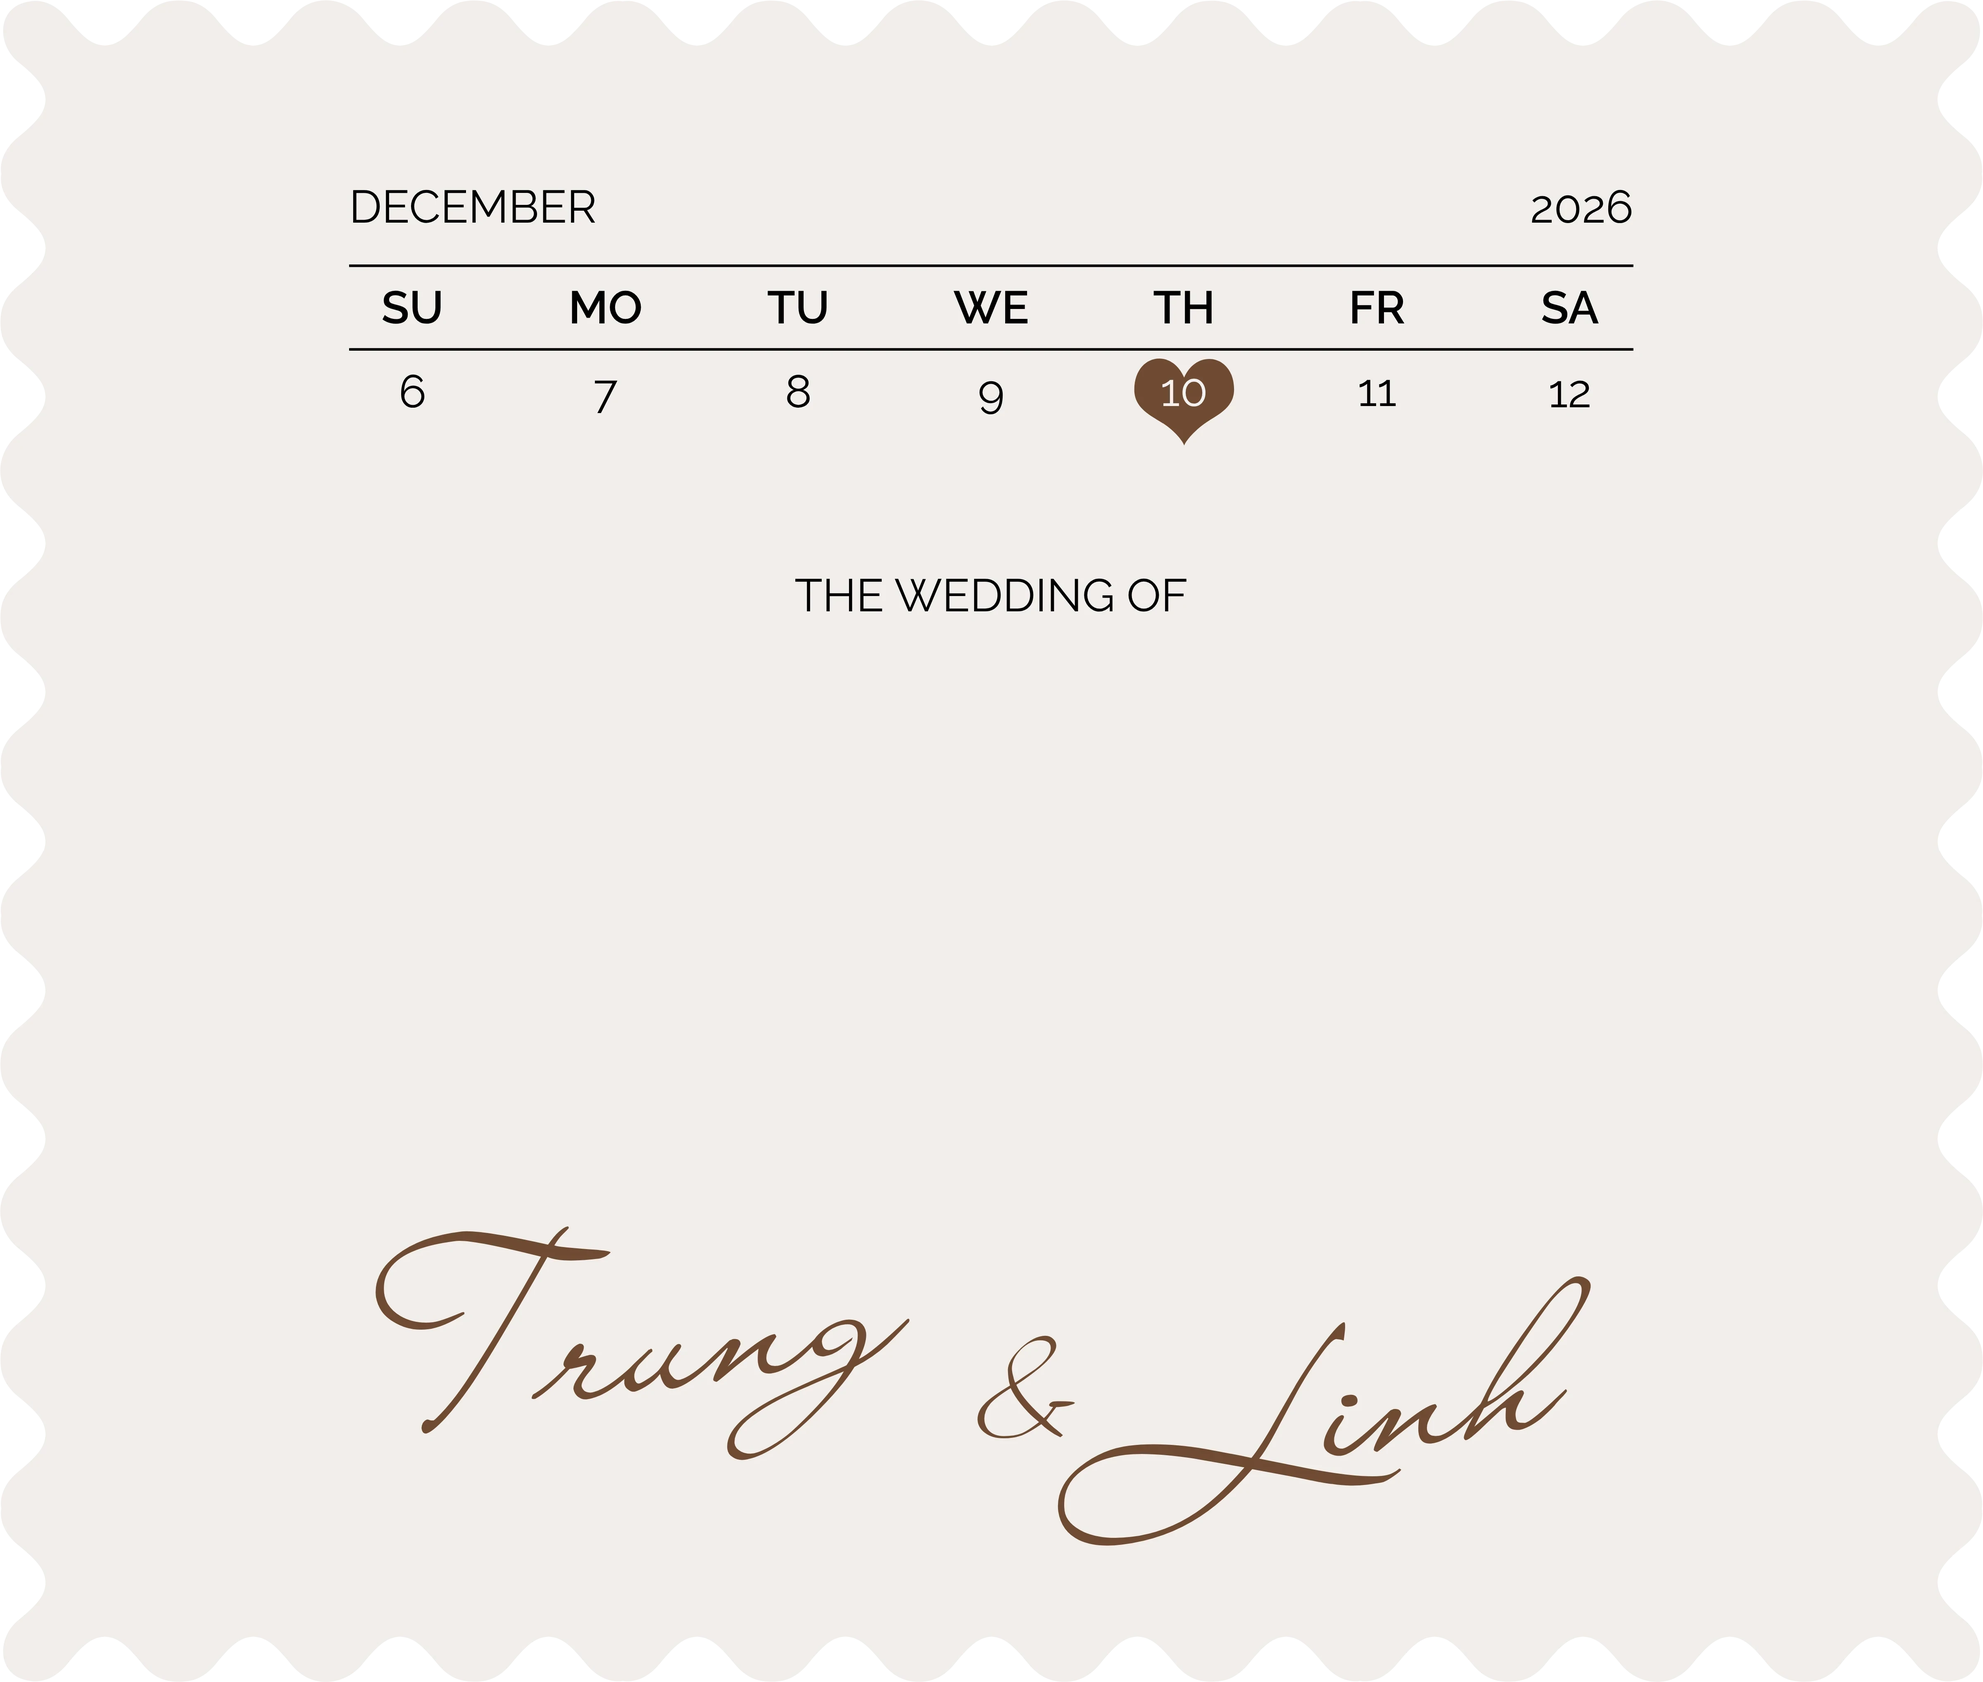
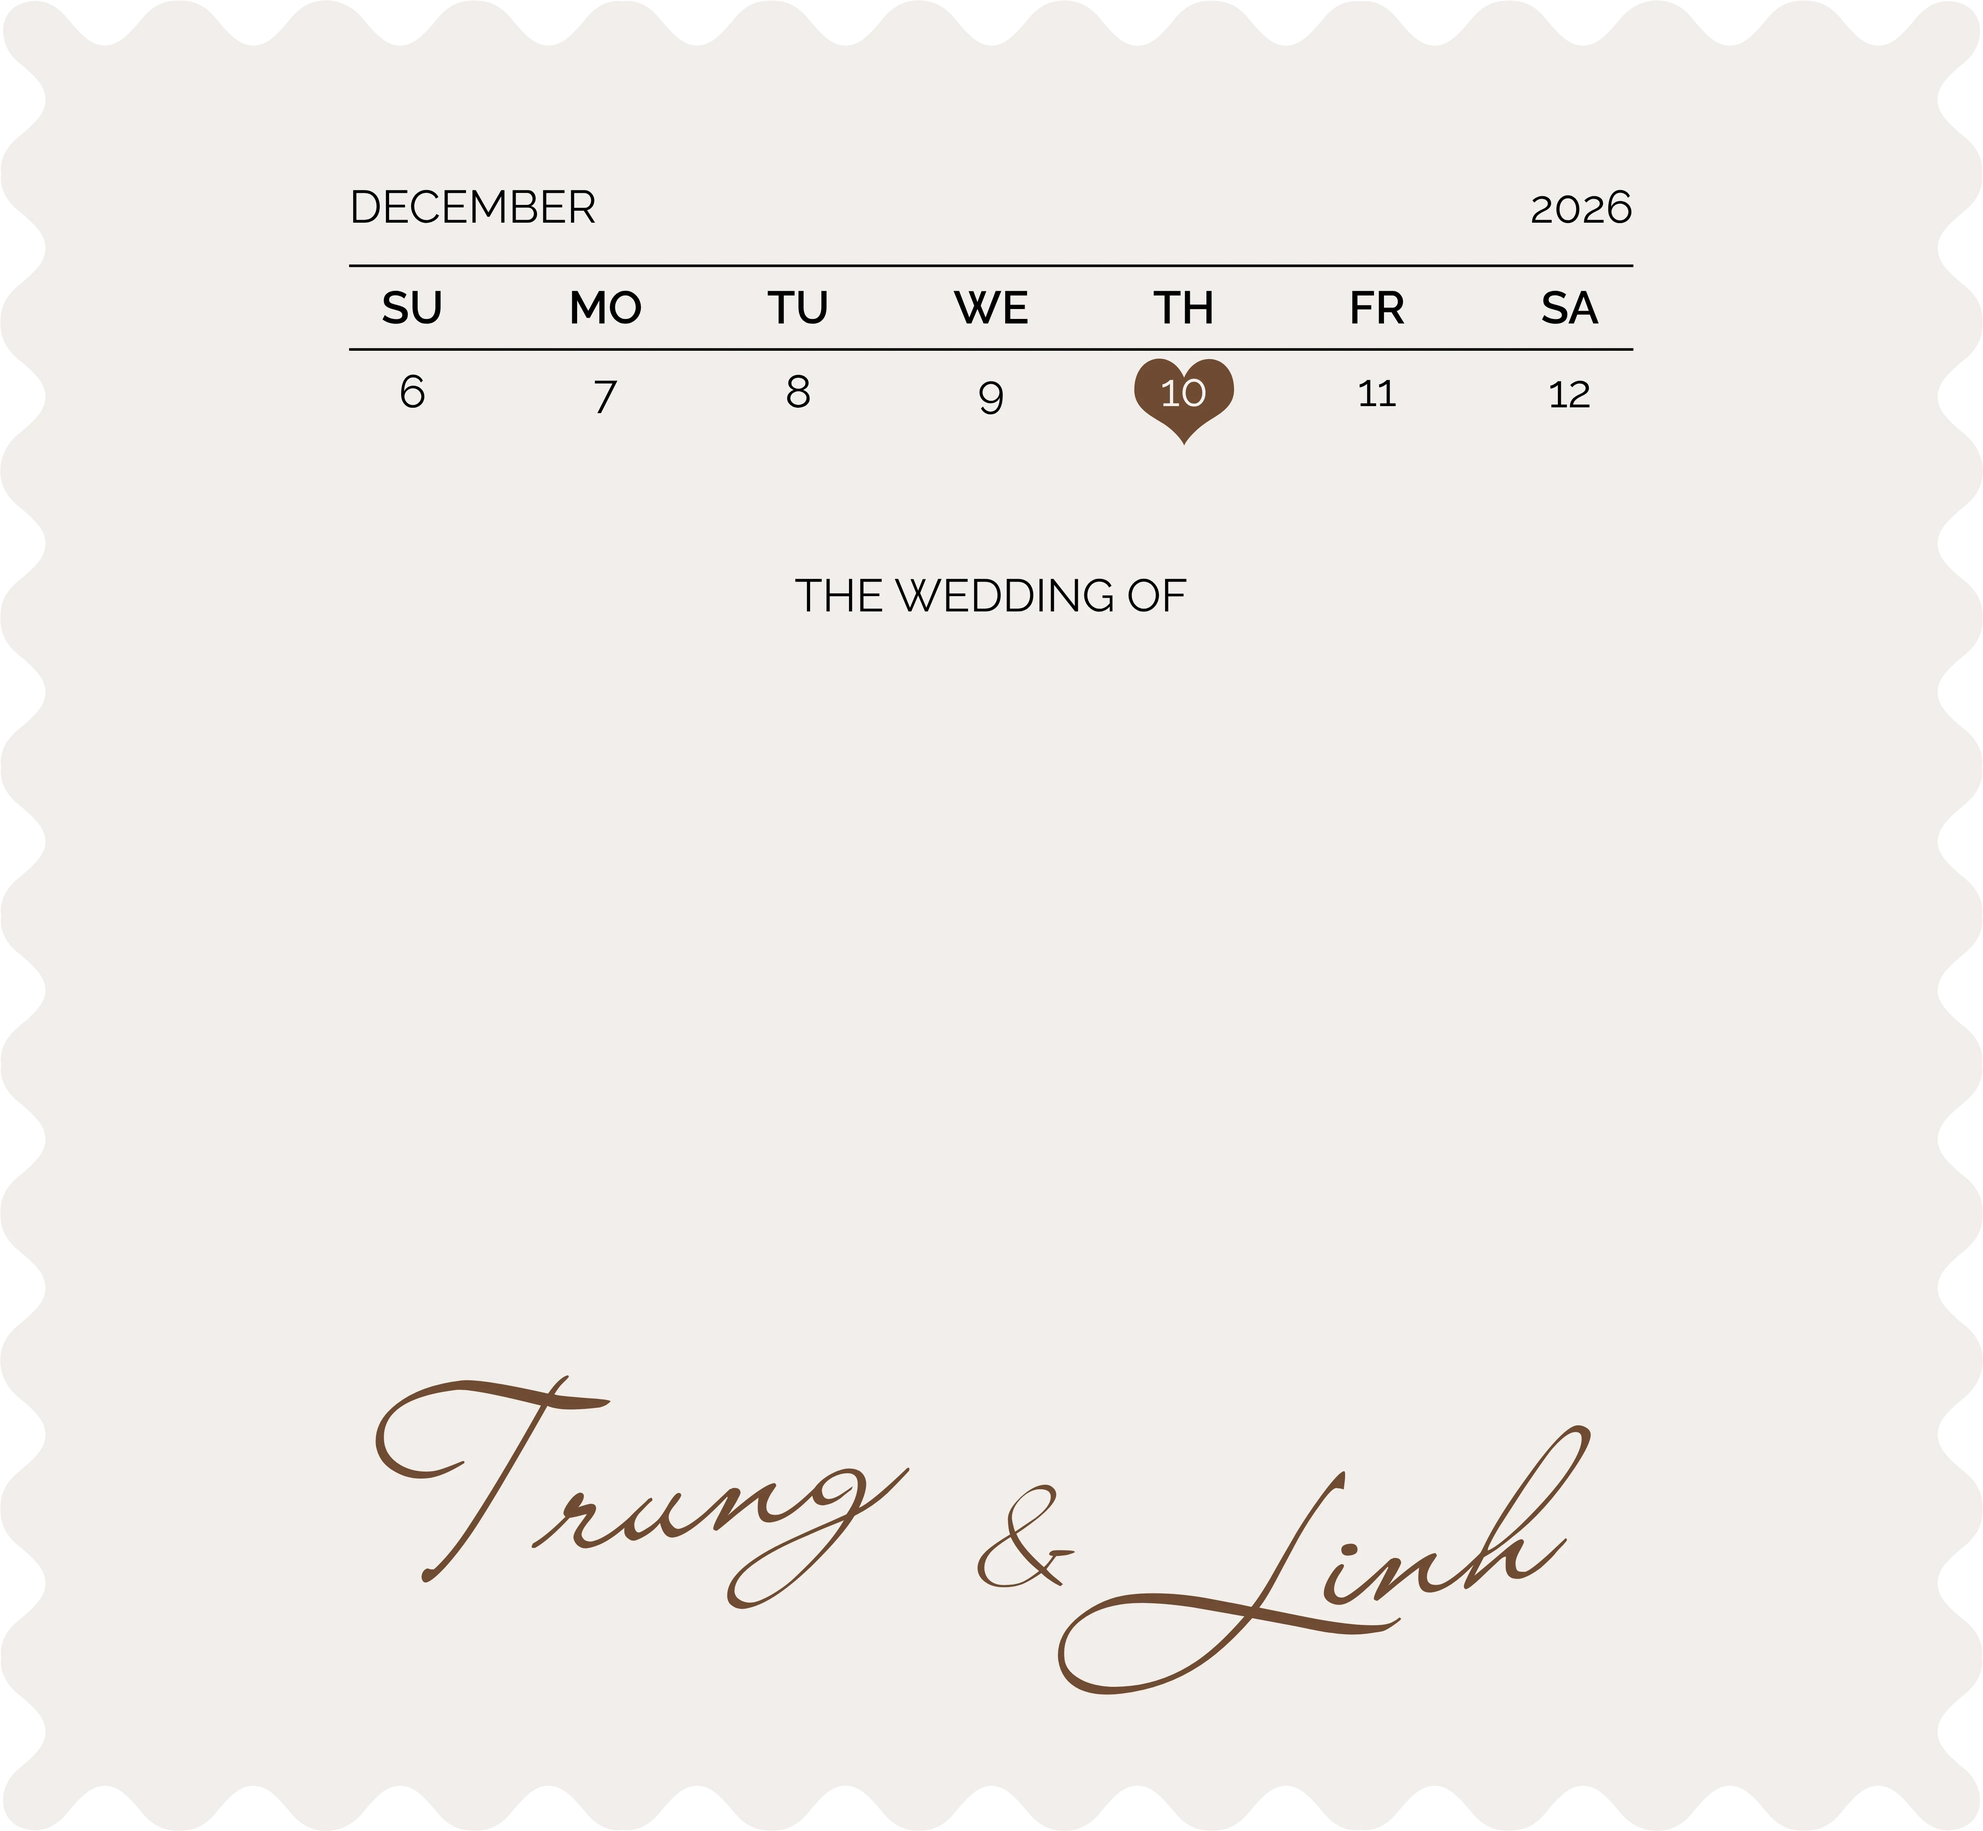
refactor: replace save-the-date-card asset with save-the-date-stamp and update dimensions

diff --git a/components/sections/SaveTheDate.tsx b/components/sections/SaveTheDate.tsx
@@ -21,7 +21,7 @@ import { background as resolveBackground, element } from "@/lib/assets";
 */
 
 const W = 4961;
-const CARD = { x: 81, y: 3761, w: 4800, h: 4072 };
+const CARD = { x: 81, y: 3761, w: 4800, h: 4432 };
 const H = CARD.y + CARD.h;
 
 const pct = (v: number, of: number) => `${((v / of) * 100).toFixed(2)}%`;
@@ -38,7 +38,7 @@ const FRAME = {
   photoLeft: box(0, 0, 2390, 3900),
   photoRight: box(2575, 263, 2249, 3371),
   script: box(187, 353, 2082),
-  card: box(CARD.x, CARD.y, CARD.w),
+  card: box(CARD.x, CARD.y, CARD.w, CARD.h),
   seal: box(2104, 3324, 753),
   /** Ngày + giờ: ngay dưới "THE WEDDING OF", trên tên hai bạn. */
   details: { top: pct(CARD.y + 1560, H) },
@@ -47,7 +47,7 @@ const FRAME = {
 export function SaveTheDate() {
   const paper = resolveBackground(design.saveTheDate.background);
   const script = element("save-the-date-script");
-  const card = element("save-the-date-card");
+  const card = element("save-the-date-stamp");
   const seal = element("swan-seal");
   const [left, right] = saveTheDate.photos;
 
@@ -63,7 +63,7 @@ export function SaveTheDate() {
         {saveTheDate.title} — {saveTheDate.date}
       </h2>
 
-      <div className="@container relative mx-auto aspect-[4961/7833] w-full overflow-hidden sm:max-w-prose sm:rounded-paper sm:shadow-lift">
+      <div className="@container relative mx-auto aspect-[4961/8193] w-full overflow-hidden sm:max-w-prose sm:rounded-paper sm:shadow-lift">
         {paper ? (
           <Image src={paper.src} alt="" fill sizes="(min-width: 40rem) 40rem, 100vw" className="object-cover" />
         ) : null}
@@ -109,7 +109,7 @@ export function SaveTheDate() {
             height={card.height}
             alt="Lịch tháng 12, ngày cưới được đánh dấu — The wedding of Trung & Linh"
             sizes="(min-width: 40rem) 39rem, 97vw"
-            className="absolute h-auto"
+            className="absolute"
             style={FRAME.card}
           />
         ) : null}

diff --git a/content/assets.ts b/content/assets.ts
@@ -44,8 +44,8 @@ export const assets = {
     "rsvp-paper-bottom": { src: "/brand/elements/rsvp-paper-bottom.webp", width: 2480, height: 631 },
     "rsvp-paper-middle": { src: "/brand/elements/rsvp-paper-middle.webp", width: 2480, height: 1613 },
     "rsvp-paper-top": { src: "/brand/elements/rsvp-paper-top.webp", width: 2480, height: 1263 },
-    "save-the-date-card": { src: "/brand/elements/save-the-date-card.webp", width: 4800, height: 4072 },
     "save-the-date-script": { src: "/brand/elements/save-the-date-script.webp", width: 1200, height: 724 },
+    "save-the-date-stamp": { src: "/brand/elements/save-the-date-stamp.webp", width: 4800, height: 4432 },
     "stamp-frame": { src: "/brand/elements/stamp-frame.webp", width: 1100, height: 1068 },
     "swan-seal": { src: "/brand/elements/swan-seal.webp", width: 600, height: 600 },
     "vinyl-disc": { src: "/brand/elements/vinyl-disc.webp", width: 1000, height: 1000 },
